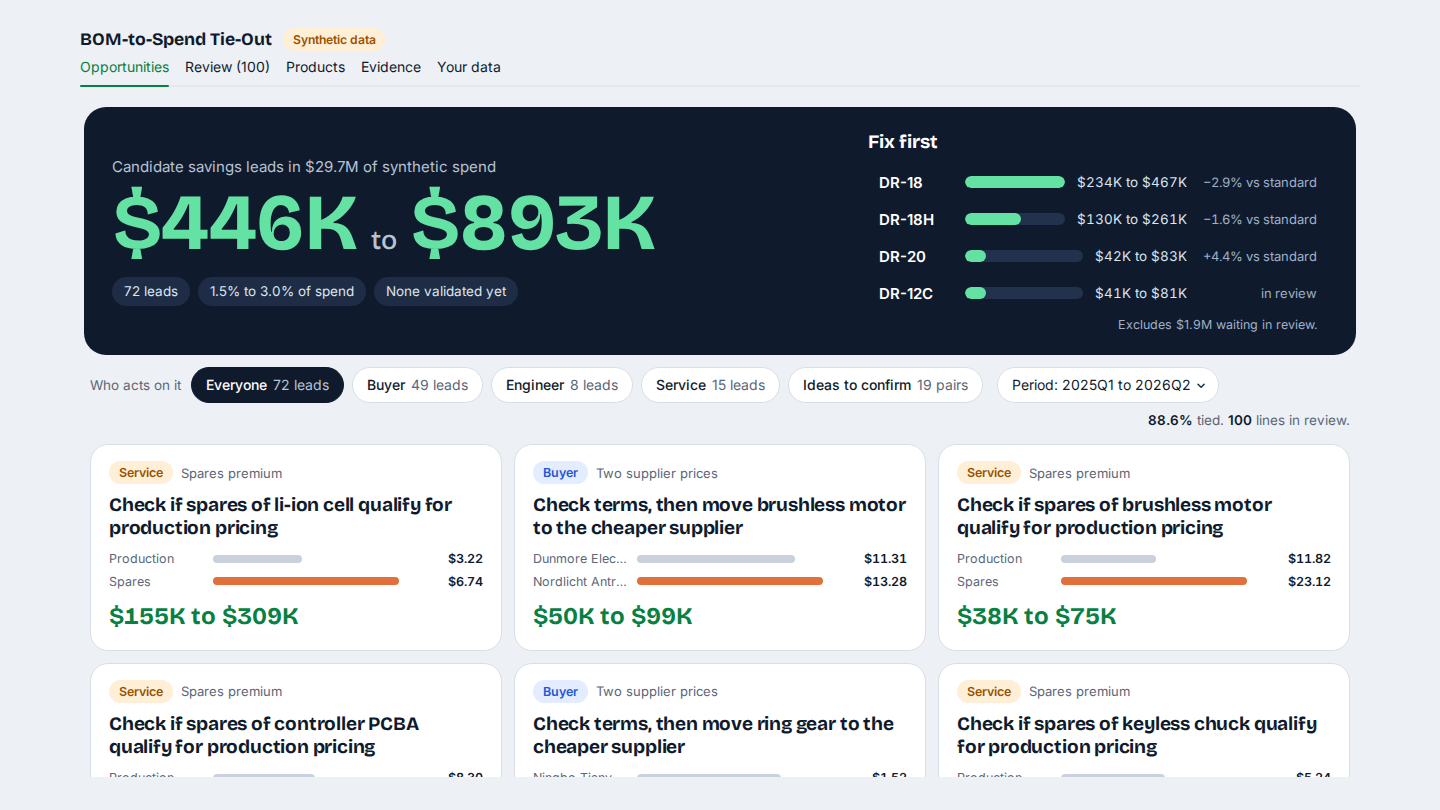
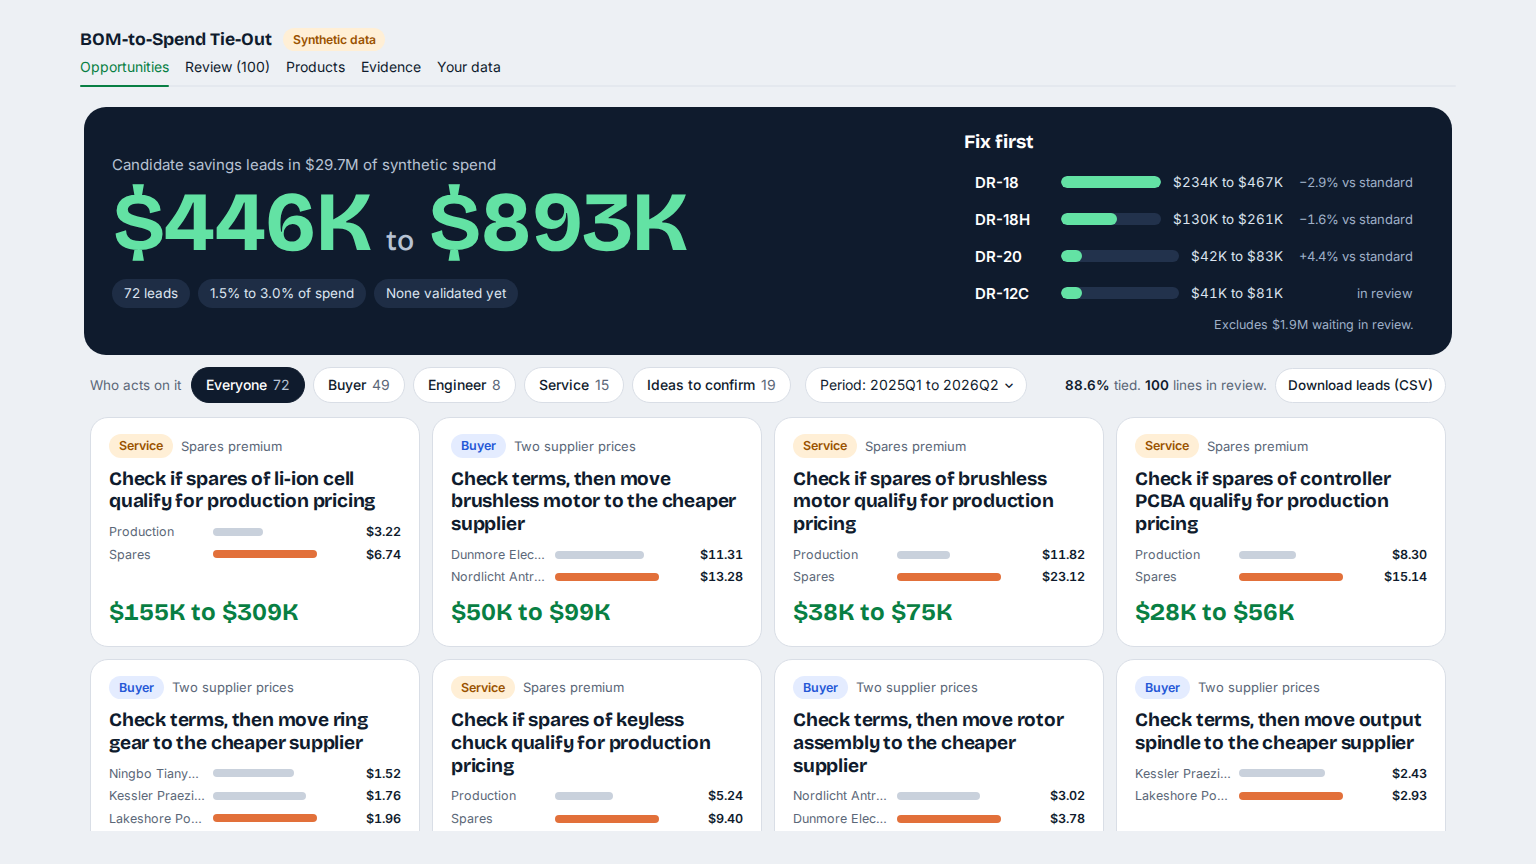
Add a leads export; product cost file and messages match the screen
- Opportunities: Download leads (CSV) in the filter row, exporting the leads
  shown with their status; chip counts shown as numbers to make room
- product_cost.csv writes 'in review' where the screen does
- The message after an upload run points to the control in Your data
- docs/app.md lists the three downloads that exist

Changed region(s): [[0.0312, 0.0309, 0.9688, 0.9568]]

diff --git a/opportunities.html b/opportunities.html
@@ -53,6 +53,8 @@ button:focus-visible { outline: 3px solid var(--buyer); outline-offset: 2px; }
 .lbl { font-size: 13.5px; color: var(--muted); margin-right: 2px; white-space: nowrap; }
 .tied { margin-left: auto; font-size: 13.5px; color: var(--muted); white-space: nowrap; }
 .tied b { color: var(--ink); font-weight: 600; }
+.dl { border: 1.5px solid var(--line); background: var(--surface); border-radius: 999px; padding: 7px 12px; font: inherit; font-weight: 500; font-size: 13.5px; color: var(--ink); white-space: nowrap; cursor: pointer; }
+.dl:hover { border-color: var(--ink); }
 
 /* cards */
 .cards { flex: 1; min-height: 0; overflow-y: auto; display: grid; grid-template-columns: repeat(auto-fill, minmax(330px, 1fr)); gap: 12px; padding: 2px 6px 12px; align-content: start; }
@@ -181,9 +183,11 @@ function renderFilters() {
   const owners = ["All", "Buyer", "Engineer", "Service"].concat(DATA.leads.some(isIdea) ? ["Ideas"] : []);
   const label = (o) => o === "All" ? "Everyone" : o === "Ideas" ? "Ideas to confirm" : o;
   $("filters").innerHTML = `<span class="lbl">Who acts on it</span>` + owners.map((o) =>
-    `<button class="chip" data-o="${o}" aria-pressed="${state.owner === o}">${label(o)}<span class="n">${base.filter((l) => inChip(l, o)).length} ${o === "Ideas" ? "pairs" : "leads"}</span></button>`).join("") +
+    `<button class="chip" data-o="${o}" aria-pressed="${state.owner === o}">${label(o)}<span class="n" title="${o === "Ideas" ? "pairs" : "leads"}">${base.filter((l) => inChip(l, o)).length}</span></button>`).join("") +
     `<span id="period-slot"></span>` +
-    `<span class="tied"><b>${(100 * DATA.tied_share).toFixed(1)}%</b> tied. <b>${DATA.waiting_lines}</b> lines in review.</span>`;
+    `<span class="tied"><b>${(100 * DATA.tied_share).toFixed(1)}%</b> tied. <b>${DATA.waiting_lines}</b> lines in review.</span>` +
+    `<button class="dl" id="dl-leads" title="The leads shown below, with their status">Download leads (CSV)</button>`;
+  $("dl-leads").onclick = downloadLeads;
   document.querySelectorAll(".chip").forEach((b) => b.onclick = () => { state.owner = b.dataset.o; renderFilters(); renderCards(); });
 }
 
@@ -192,6 +196,17 @@ function compare(l) {
   return `<div class="cmp">` + l.compare.map((c) =>
     `<div class="cmp-row${c.value === hi && l.compare.length > 1 ? " hi" : ""}"><span title="${esc(c.label)}">${esc(c.label)}</span>
        <span class="cmp-bar" style="width:${Math.max(4, 100 * c.value / top).toFixed(1)}%"></span><b>${esc(c.text)}</b></div>`).join("") + `</div>`;
+}
+
+// The leads currently shown (the owner chip and the product filter apply), one row each, with their status.
+function downloadLeads() {
+  const cell = (v) => { const s = String(v ?? ""); return /[",\n]/.test(s) ? '"' + s.replace(/"/g, '""') + '"' : s; };
+  const rows = [["lead_id", "type", "owner", "part", "action", "low_usd", "high_usd", "status", "products", "purchase_line_count"]].concat(
+    shown().map((l) => [l.id, l.type, l.owner, l.part, l.action, Math.round(l.low), Math.round(l.high), state.status[l.id] || "open",
+                        l.products.map((x) => x.id).join("; "), l.line_count]));
+  const a = document.createElement("a");
+  a.href = URL.createObjectURL(new Blob([rows.map((r) => r.map(cell).join(",")).join("\n") + "\n"], { type: "text/csv" }));
+  a.download = "leads.csv"; document.body.appendChild(a); a.click(); a.remove(); setTimeout(() => URL.revokeObjectURL(a.href), 1000);
 }
 
 function renderCards() {

diff --git a/app.py b/app.py
@@ -541,7 +541,10 @@ with tab_cost:
         "Estimated actual per unit": products["actual_cost_per_unit_est"].map("${:.2f}".format),
         "Actual vs standard": ["in review" if r.cost_in_review else "n/a" if pd.isna(r.actual_vs_std) else f"{r.actual_vs_std:+.1%}" for r in products.itertuples()],
         "Allocated production spend": products["allocated_production_spend_est"].map(usd)}), hide_index=True, width="stretch", height="content")
-    st.download_button("Download product cost (CSV)", products.to_csv(index=False), "product_cost.csv", "text/csv")
+    # The file says what the screen says: "in review" where the percentage is withheld.
+    cost_file = products.drop(columns="cost_in_review").rename(columns={"waiting_usd": "waiting_in_review_usd"})
+    cost_file["actual_vs_std"] = cost_file["actual_vs_std"].astype(object).mask(products["cost_in_review"], "in review")
+    st.download_button("Download product cost (CSV)", cost_file.to_csv(index=False), "product_cost.csv", "text/csv")
 
     st.subheader("Shared parts: who uses them and who sells them")
     req = requirements(bom, builds, q_from, q_to)
@@ -1272,4 +1275,5 @@ with tab_data:
                     else:
                         st.rerun()
         if uploaded:
-            st.success(f"Last run: {', '.join(uploaded['files'])}: {uploaded['stats']['lines']:,} purchase lines. Select \"Your files\" under Data in the sidebar to view it.")
+            st.success(f"Last run: {', '.join(uploaded['files'])}: {uploaded['stats']['lines']:,} purchase lines. Every tab now shows these files; "
+                       "switch back with \"Showing in every tab\" at the top of this tab.")

diff --git a/docs/app.md b/docs/app.md
@@ -48,7 +48,7 @@ The flow chart and the network use ECharts through the `streamlit-echarts` compo
 
 ## Saved decisions
 
-Every approve, reject or not-a-BOM-part decision is written to `crosswalk.csv` (purchase text and part-number field to BOM part). It applies at once to every line with the same text, persists across sessions, and is the first rule on the next pipeline run. Undo, clear and download are at the bottom of the Review tab. The file is local working state and is gitignored. Leads and product cost also have download buttons.
+Every approve, reject or not-a-BOM-part decision is written to `crosswalk.csv` (purchase text and part-number field to BOM part). It applies at once to every line with the same text, persists across sessions, and is the first rule on the next pipeline run. Undo, clear and download are at the bottom of the Review tab. The file is local working state and is gitignored. There are three downloads in all: the leads currently shown ("Download leads (CSV)" in the Opportunities filter row, with each lead's status), product cost (Products), and the saved decisions (Review).
 
 ## Your own files
 
